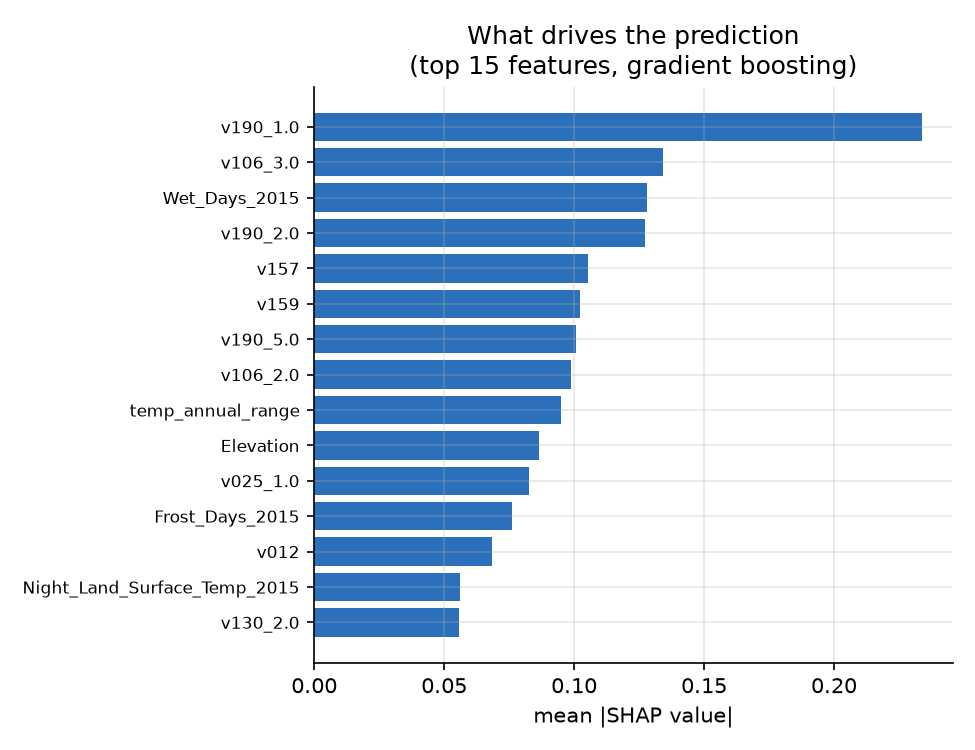
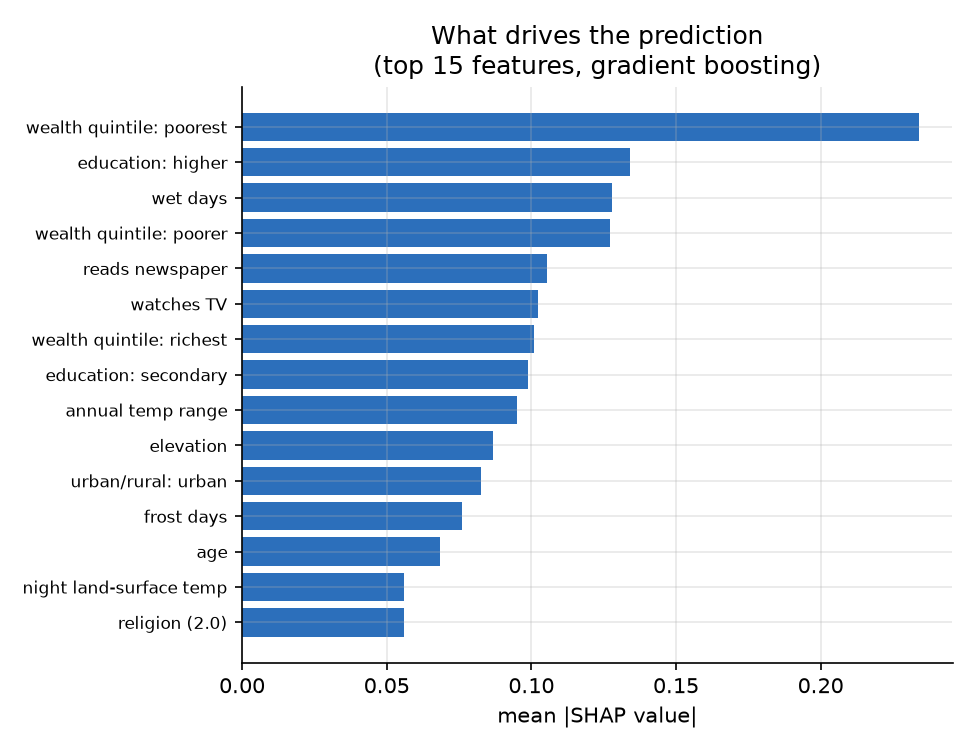
clean figures: readable SHAP labels, drop duplicate CV chart

diff --git a/scripts/05_figures.py b/scripts/05_figures.py
@@ -45,6 +45,49 @@ plt.rcParams.update({"figure.dpi": 150, "font.size": 10, "axes.grid": True,
 
 BLUE, ORANGE, GREEN, GREY = "#2c6fbb", "#e8833a", "#3a9d5d", "#9aa0a6"
 
+_VAR_LABELS = {
+    "v190": "wealth quintile", "v106": "education", "v012": "age",
+    "v025": "urban/rural", "v130": "religion", "s116": "caste",
+    "v501": "marital status", "s259": "age at menarche",
+    "v157": "reads newspaper", "v158": "listens radio", "v159": "watches TV",
+    "v113": "water source", "v116": "toilet type", "s365s": "CHW hygiene talk",
+    "temp_annual_mean": "mean annual temp", "temp_annual_range": "annual temp range",
+    "temp_hot3_mean": "hot-season temp", "temp_hottest_month": "hottest-month temp",
+    "heat_days_12mo": "extreme-heat days (12mo)", "heat_threshold_c": "heat threshold",
+    "Wet_Days_2015": "wet days", "Frost_Days_2015": "frost days",
+    "Elevation": "elevation", "Aridity_2015": "aridity",
+    "Night_Land_Surface_Temp_2015": "night land-surface temp",
+    "Day_Land_Surface_Temp_2015": "day land-surface temp",
+    "Land_Surface_Temperature_2015": "land-surface temp",
+    "Precipitation_2015": "precipitation", "PET_2015": "potential evapotranspiration",
+    "Diurnal_Temperature_Range_2015": "diurnal temp range",
+    "Enhanced_Vegetation_Index_2015": "vegetation index",
+    "Nightlights_Composite": "nightlights",
+    "Maximum_Temperature_2015": "max temp", "Mean_Temperature_2015": "mean temp",
+    "Minimum_Temperature_2015": "min temp", "Travel_Times": "travel time to city",
+}
+_LEVEL_LABELS = {
+    "v190": {"1.0": "poorest", "2.0": "poorer", "3.0": "middle", "4.0": "richer", "5.0": "richest"},
+    "v106": {"0.0": "none", "1.0": "primary", "2.0": "secondary", "3.0": "higher"},
+    "v025": {"1.0": "urban", "2.0": "rural"},
+}
+
+
+def _pretty(name: str) -> str:
+    s = name.replace("num__", "").replace("cat__", "")
+    if s in _VAR_LABELS:
+        return _VAR_LABELS[s]
+    base, level = s, None
+    if "_" in s:
+        head, tail = s.rsplit("_", 1)
+        if tail.replace(".", "").isdigit():
+            base, level = head, tail
+    label = _VAR_LABELS.get(base, base)
+    if level is not None:
+        lvl = _LEVEL_LABELS.get(base, {}).get(level)
+        return f"{label}: {lvl}" if lvl else f"{label} ({level})"
+    return label
+
 
 def fig_cv_comparison():
     t = pd.read_csv(TABLES / "cv_results.csv")
@@ -115,8 +158,7 @@ def fig_shap(df, outcome, n_sample=4000):
     fig, ax = plt.subplots(figsize=(6.5, 5))
     ax.barh(range(len(order)), imp[order], color=BLUE)
     ax.set_yticks(range(len(order)))
-    ax.set_yticklabels([names[i].replace("num__", "").replace("cat__", "")
-                        for i in order], fontsize=8)
+    ax.set_yticklabels([_pretty(names[i]) for i in order], fontsize=8)
     ax.set_xlabel("mean |SHAP value|")
     ax.set_title("What drives the prediction\n(top 15 features, gradient boosting)")
     fig.tight_layout(); fig.savefig(FIGURES / "shap_importance.png"); plt.close(fig)
@@ -130,7 +172,8 @@ def _fig_perm_importance(est, X, y):
     order = np.argsort(r.importances_mean)[-15:]
     fig, ax = plt.subplots(figsize=(6.5, 5))
     ax.barh(range(len(order)), r.importances_mean[order], color=BLUE)
-    ax.set_yticks(range(len(order))); ax.set_yticklabels(X.columns[order], fontsize=8)
+    ax.set_yticks(range(len(order)))
+    ax.set_yticklabels([_pretty(c) for c in X.columns[order]], fontsize=8)
     ax.set_xlabel("permutation importance")
     ax.set_title("What drives the prediction (top 15)")
     fig.tight_layout(); fig.savefig(FIGURES / "shap_importance.png"); plt.close(fig)

diff --git a/scripts/03_train.py b/scripts/03_train.py
@@ -102,7 +102,7 @@ def main() -> int:
     table.to_csv(TABLES / "cv_results.csv", index=False)
     print("\n=== Random vs Spatial CV ===")
     print(table.to_string(index=False))
-    _plot_leakage(table, FIGURES / "leakage_gap.png")
+    # _plot_leakage(table, FIGURES / "leakage_gap.png")  # superseded by 05_figures.py:cv_comparison.png
 
     # --- Ablation: does climate add anything over SES? (spatial CV only) ---
     print("\n=== Feature ablation (spatial CV, gradient boosting) ===")
